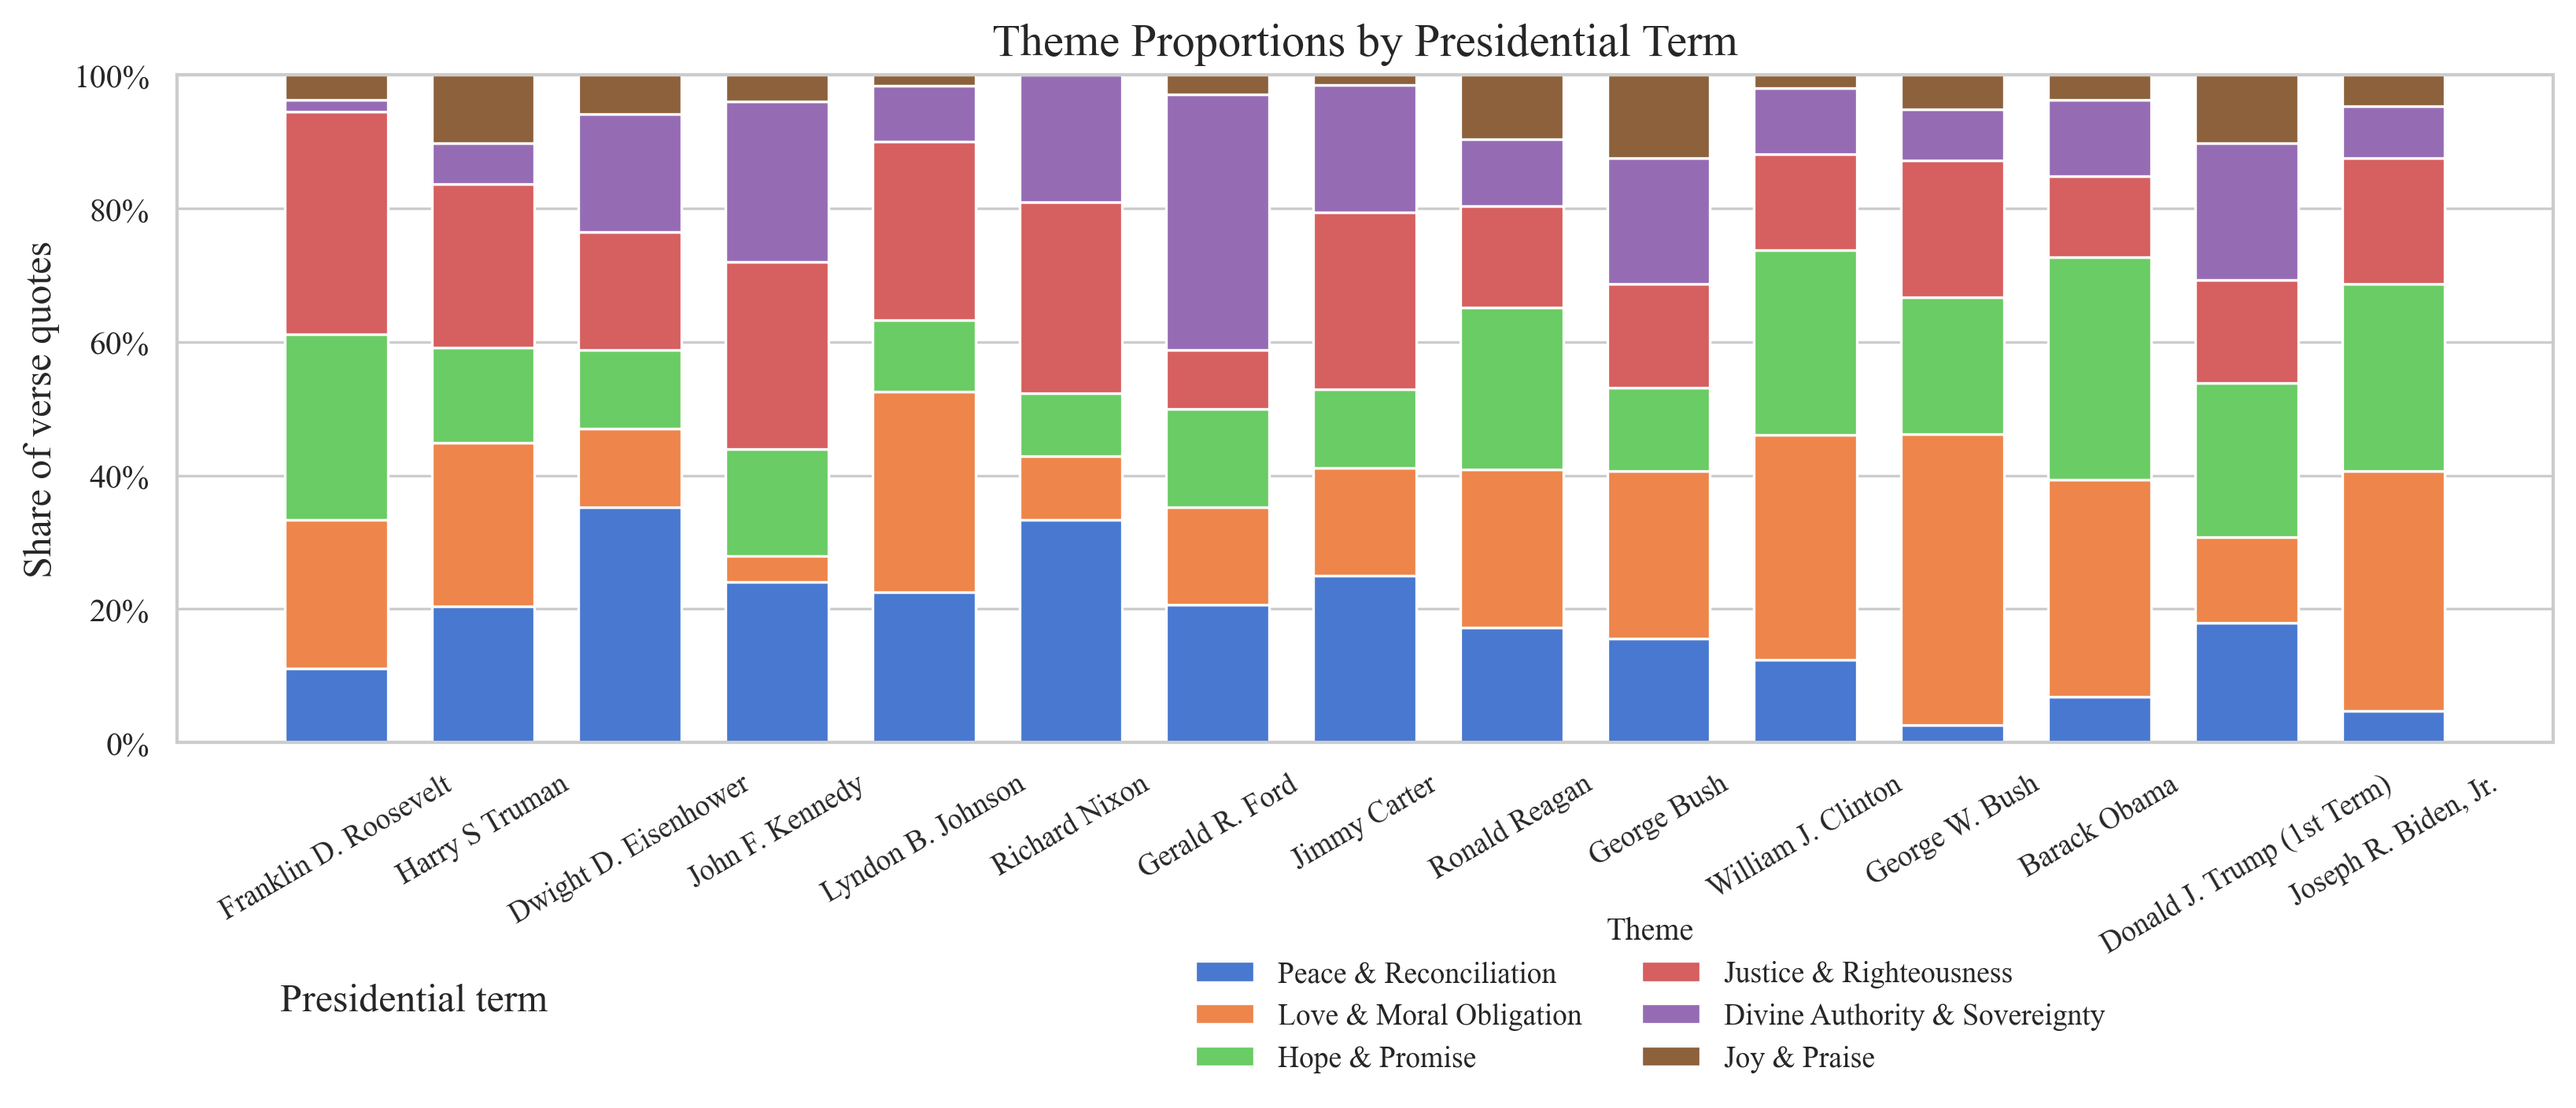
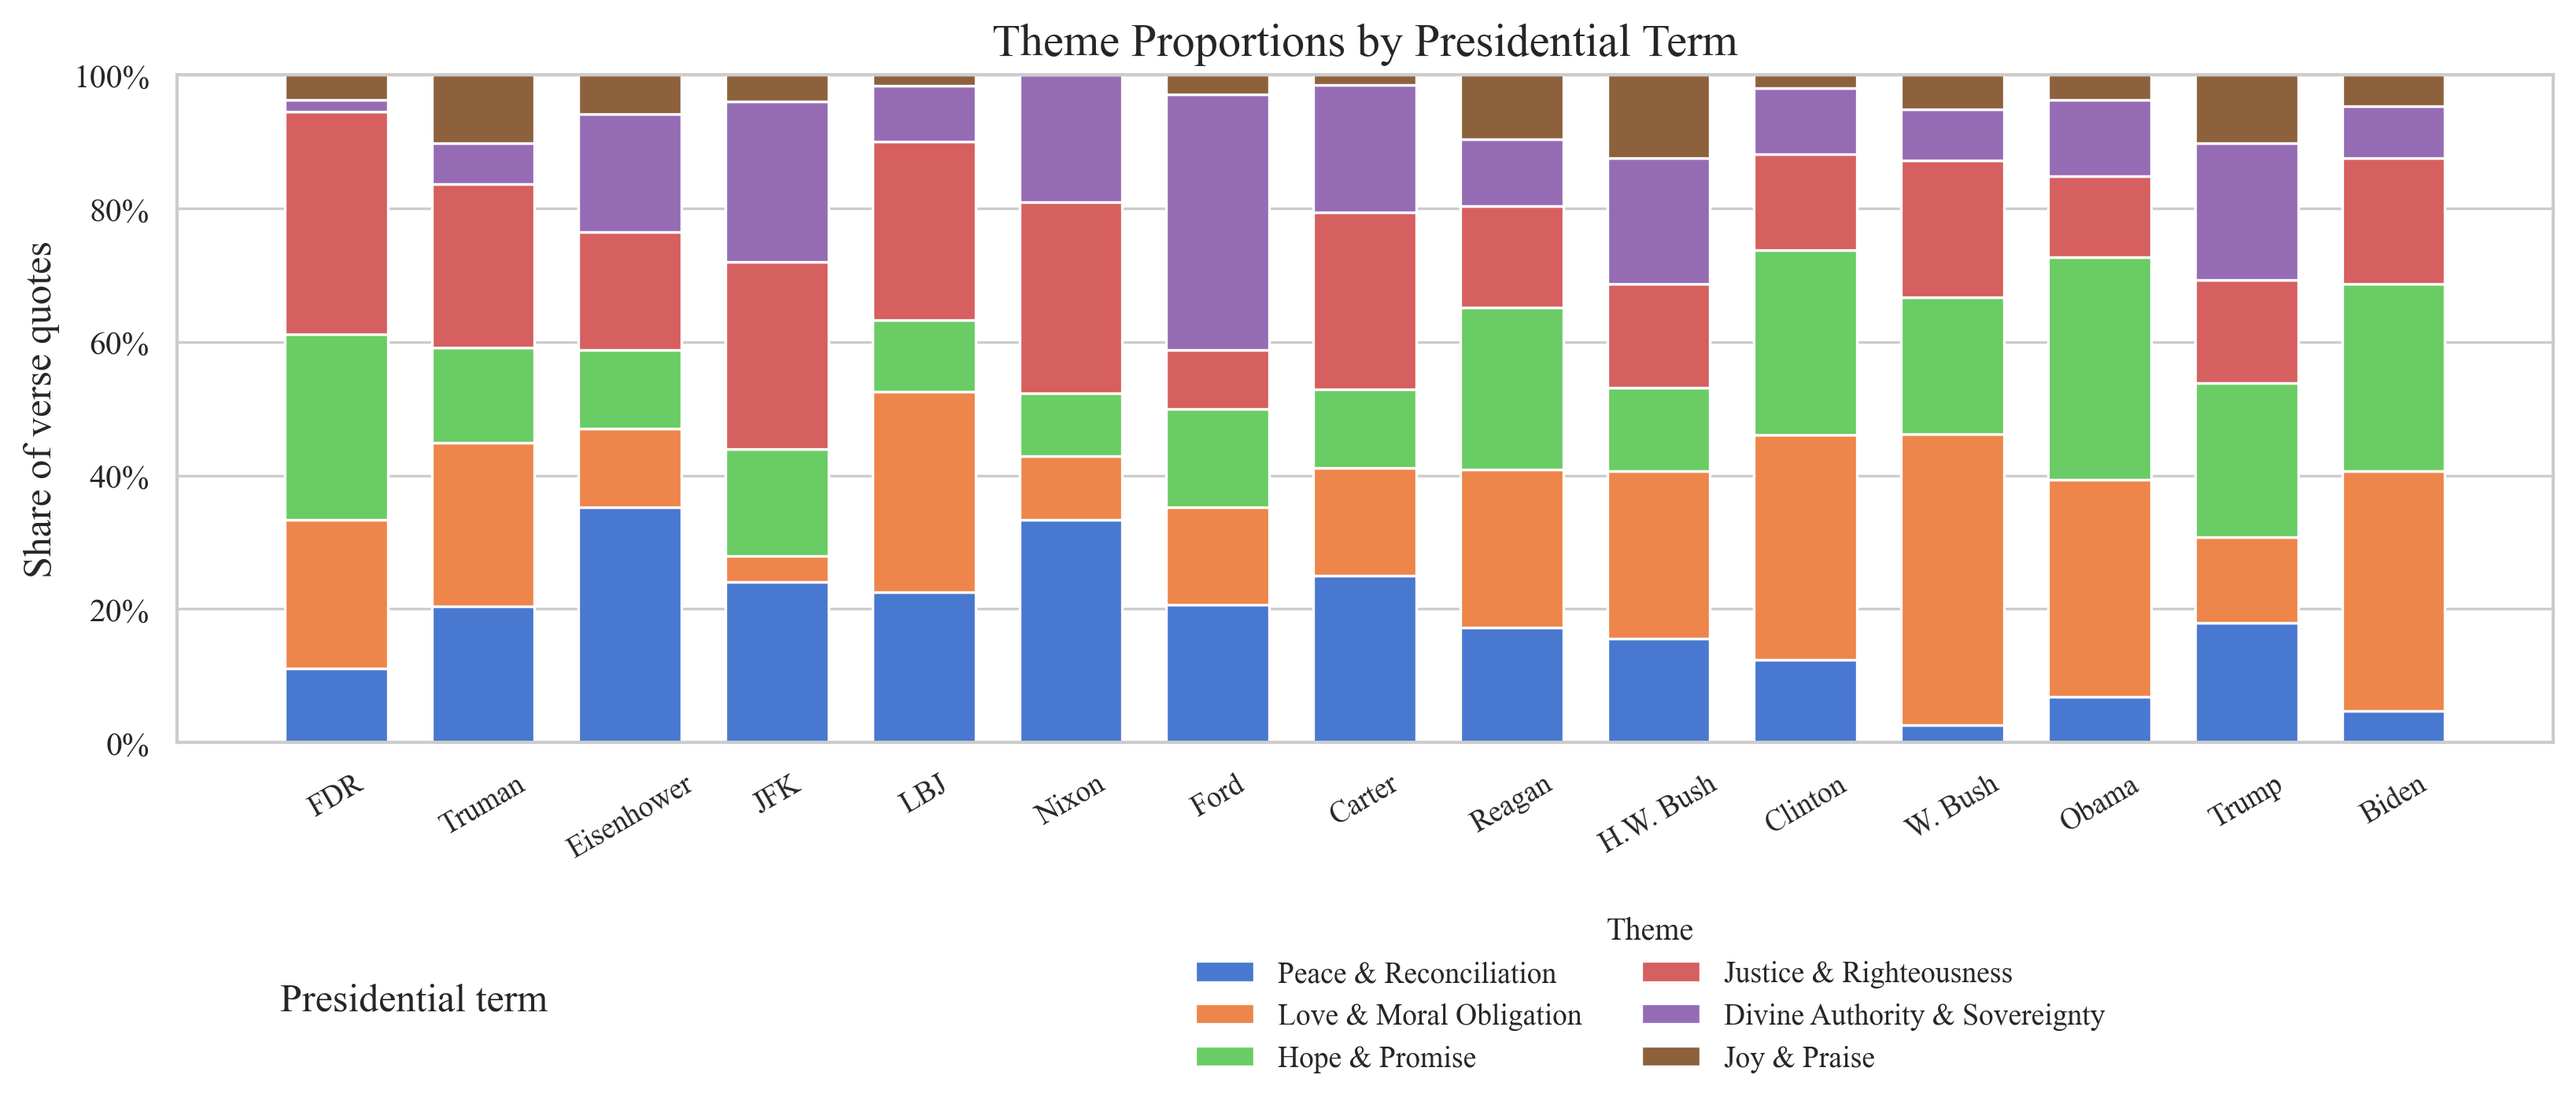
improve readability

diff --git a/data-visualizations/themes/term_theme_proportions.py b/data-visualizations/themes/term_theme_proportions.py
@@ -46,6 +46,23 @@ PRESIDENT_ORDER = [
     "Donald J. Trump (1st Term)",
     "Joseph R. Biden, Jr.",
 ]
+PRESIDENT_LABELS = {
+    "Franklin D. Roosevelt": "FDR",
+    "Harry S Truman": "Truman",
+    "Dwight D. Eisenhower": "Eisenhower",
+    "John F. Kennedy": "JFK",
+    "Lyndon B. Johnson": "LBJ",
+    "Richard Nixon": "Nixon",
+    "Gerald R. Ford": "Ford",
+    "Jimmy Carter": "Carter",
+    "Ronald Reagan": "Reagan",
+    "George Bush": "H.W. Bush",
+    "William J. Clinton": "Clinton",
+    "George W. Bush": "W. Bush",
+    "Barack Obama": "Obama",
+    "Donald J. Trump (1st Term)": "Trump",
+    "Joseph R. Biden, Jr.": "Biden",
+}
 
 
 def _load_csv(path: Path) -> pd.DataFrame:
@@ -68,6 +85,7 @@ def build_chart(df: pd.DataFrame, output_path: Path) -> None:
     )
     plt.rcParams["font.serif"] = ["Times New Roman", "Times", "DejaVu Serif"]
     fig, ax = plt.subplots(figsize=(11, 5), dpi=300)
+    president_labels = [PRESIDENT_LABELS[president] for president in df.index]
 
     palette = sns.color_palette("muted", n_colors=len(LABEL_ORDER))
     label_colors = dict(zip(LABEL_ORDER, palette))
@@ -89,6 +107,8 @@ def build_chart(df: pd.DataFrame, output_path: Path) -> None:
     ax.xaxis.set_label_coords(0.1, -0.36)
     ax.set_ylabel("Share of verse quotes", fontsize=12)
     ax.set_title("Theme Proportions by Presidential Term", fontsize=14)
+    ax.set_xticks(range(len(df.index)))
+    ax.set_xticklabels(president_labels)
     ax.tick_params(axis="x", rotation=30, labelsize=9)
     ax.tick_params(axis="y", labelsize=10)
     ax.set_ylim(0, 1.0)
